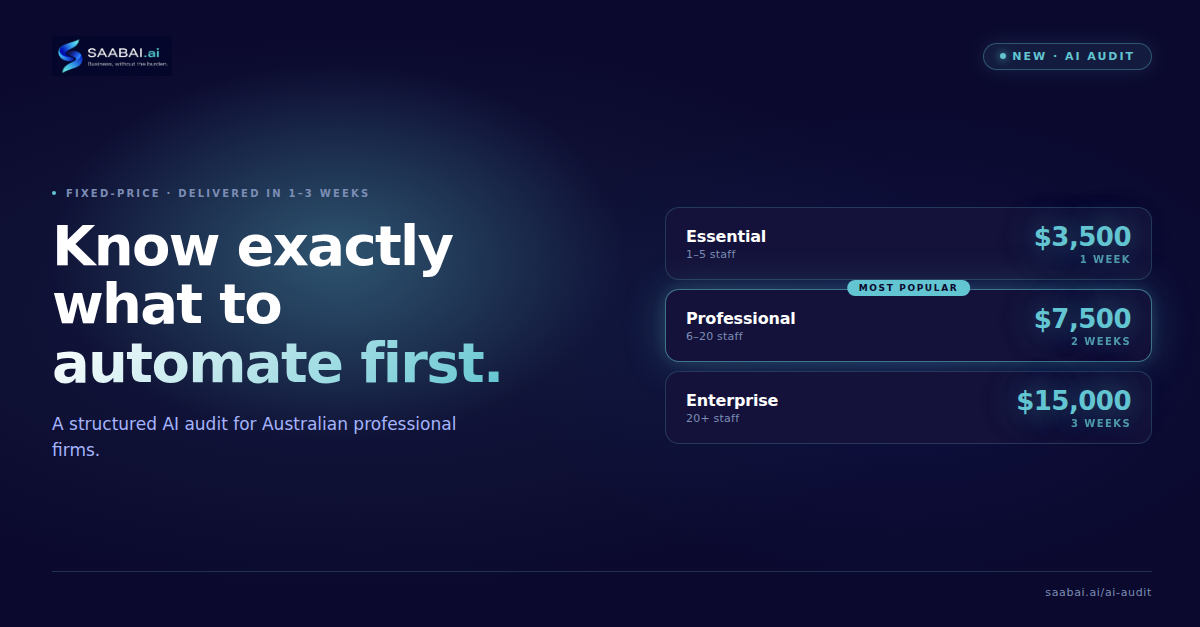
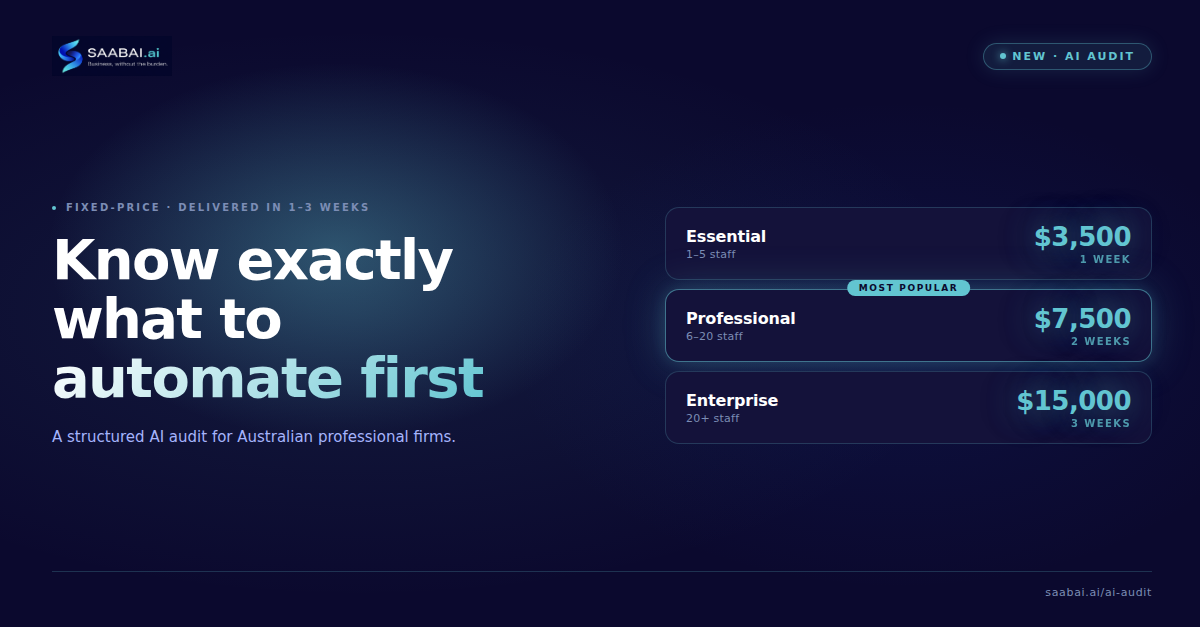
fix: remove period from AI Audit headline, fix sub-line wrapping
- "automate first." → "automate first" (no trailing period)
- Sub-line font-size 17px → 15px + white-space: nowrap so it sits on one line

https://claude.ai/code/session_0178ECe6JdV6fogQ4eUmiBvA

Changed region(s): [[0.0308, 0.303, 0.4317, 0.6364], [0.0308, 0.6667, 0.4008, 0.7273]]

diff --git a/public/social/ai-audit-launch-source.html b/public/social/ai-audit-launch-source.html
@@ -160,10 +160,11 @@
   }
 
   .sub {
-    font-size: 17px;
+    font-size: 15px;
     color: var(--saabai-text-muted);
     line-height: 1.55;
     max-width: 420px;
+    white-space: nowrap;
   }
 
   /* ── Right column — cards ────────────────────────────── */
@@ -296,7 +297,7 @@
         </div>
         <h1 class="headline">
           Know exactly what to<br>
-          <span class="gradient-text">automate first.</span>
+          <span class="gradient-text">automate first</span>
         </h1>
         <p class="sub">A structured AI audit for Australian professional firms.</p>
       </div>